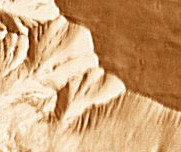
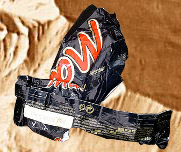
litter

diff --git a/breadcrumbs.js b/breadcrumbs.js
@@ -15,14 +15,10 @@ x tardis
 x waldo
 x happy birthday delani
 x american flag
-- NASA rover
+x NASA rover
 x spaceman spiff
-- bruno mars
-- calendrier mars
-- chocolat mars
-- taurentula
+x chocolat mars
 - peruvian bird drawings
-- flying spagghetti monster
 - hieroglyphs
 - tintin
 
@@ -257,9 +253,9 @@ extra_messages = [
     "SOLAR IRRADIANCE IS CURRENTLY  589.2 W/M^2",
     "TEMPERATURE IS CURRENTLY -30 F",
     "SPONSORED BY JOHNNYCAB! WE HOPE YOU'VE ENJOYED THE RIDE",
-    "HAVE YOU LOCATED THE TARDIS?",
+    "TIME TRAVEL IS ILLEGAL",
     "HAVE YOU FOUND WALDO?",
-    "HAVE YOU SEEN SPACEMAN SPIFF?",
-    "HAVE YOU FOUND THE FLAG?",
-    "HAVE YOU LOCATED THE ROVER?"
+    "LOST AND FOUND: A STUFFED TIGER",
+    "REPORT ALL GRAFFITI TO THE MARS POLICE",
+    "NO LITTERING - 500$ FINE"
 ];
